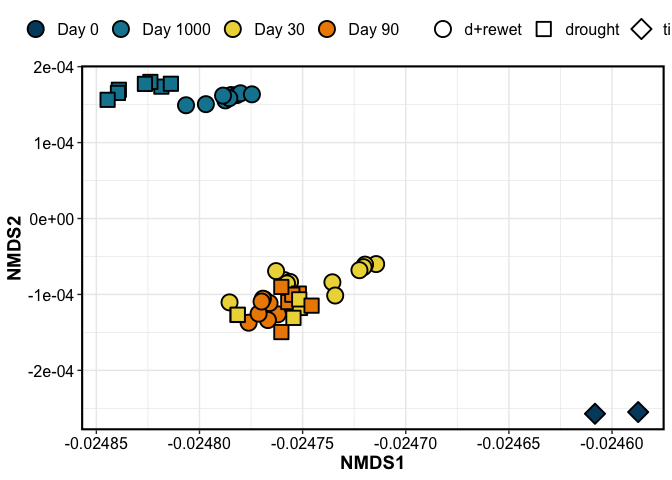
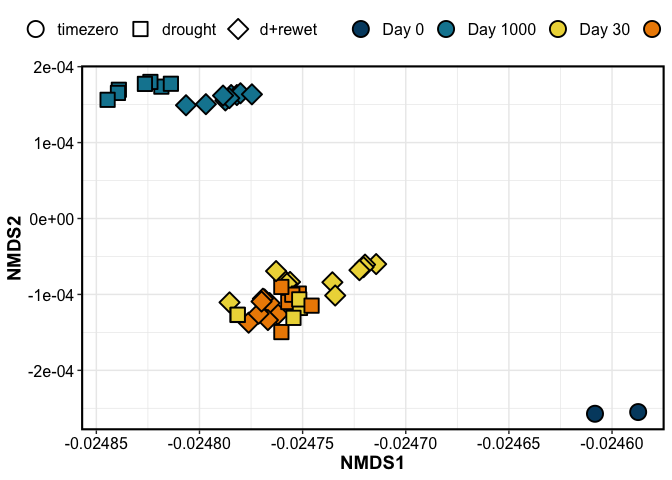
nmr report

diff --git a/3-reports/chemistry_report_NEW.md b/3-reports/chemistry_report_NEW.md
@@ -14,7 +14,7 @@ chemistry_report_NEW
 | depth      |   1 | 0.0506674 | 0.1149601 |  88.057141 |   0.001 |
 | length     |   2 | 0.2056311 | 0.4665603 | 178.687892 |   0.001 |
 | saturation |   1 | 0.1540093 | 0.3494347 | 267.659890 |   0.001 |
-| drying     |   1 | 0.0018533 | 0.0042049 |   3.220881 |   0.066 |
+| drying     |   1 | 0.0018533 | 0.0042049 |   3.220881 |   0.078 |
 | Residual   |  89 | 0.0512099 | 0.1161911 |         NA |      NA |
 | Total      |  94 | 0.4407384 | 1.0000000 |         NA |      NA |
 
@@ -24,7 +24,7 @@ chemistry_report_NEW
 |:-----------|----:|----------:|----------:|------------:|--------:|
 | length     |   2 | 0.1219450 | 0.7254832 | 189.9259569 |   0.001 |
 | saturation |   1 | 0.0420732 | 0.2503049 | 131.0558189 |   0.001 |
-| drying     |   1 | 0.0000653 | 0.0003882 |   0.2032546 |   0.645 |
+| drying     |   1 | 0.0000653 | 0.0003882 |   0.2032546 |   0.676 |
 | Residual   |  43 | 0.0138044 | 0.0821262 |          NA |      NA |
 | Total      |  47 | 0.1680880 | 1.0000000 |          NA |      NA |
 
@@ -77,4 +77,118 @@ Click for relabund per core
 
 </details>
 
+## ——
+
+## NMR
+
+### Stats – PERMANOVA
+
+| term       |  df |   SumOfSqs |         R2 |  statistic | p.value |
+|:-----------|----:|-----------:|-----------:|-----------:|--------:|
+| length     |   2 |  0.7142123 |  0.1163433 |  3.7384819 |   0.009 |
+| saturation |   1 |  2.4083480 |  0.3923136 | 25.2125733 |   0.001 |
+| drying     |   1 | -0.0286895 | -0.0046734 | -0.3003454 |   1.000 |
+| Residual   |  31 |  2.9611729 |  0.4823673 |         NA |      NA |
+| Total      |  36 |  6.1388341 |  1.0000000 |         NA |      NA |
+
+### Stats – PCA and clustering
+
+<details>
+<summary>
+Click for details
+</summary>
+
+![](chemistry_report_NEW_files/figure-gfm/nmr_cluster-1.png)<!-- -->![](chemistry_report_NEW_files/figure-gfm/nmr_cluster-2.png)<!-- -->![](chemistry_report_NEW_files/figure-gfm/nmr_cluster-3.png)<!-- -->![](chemistry_report_NEW_files/figure-gfm/nmr_cluster-4.png)<!-- -->
+
+    ## [1] "NMR hierarchical clustering: two clusters"
+
+    ##   cluster  n
+    ## 1       1 13
+    ## 2       2 24
+
+</details>
+
+![](chemistry_report_NEW_files/figure-gfm/nmr_pca_overall-1.png)<!-- -->
+
+## NMR relabund
+
+![](chemistry_report_NEW_files/figure-gfm/nmr_relabund-1.png)<!-- -->
+
+<details>
+<summary>
+Click for Relative abundance by core
+</summary>
+
+    ## [1] "relative abundance: Washington"
+
+![](chemistry_report_NEW_files/figure-gfm/nmr_relabund_cores-1.png)<!-- -->
+
+</details>
+
+## NMR spectra
+
+![](chemistry_report_NEW_files/figure-gfm/nmr_spectra-1.png)<!-- -->
+
 ------------------------------------------------------------------------
+
+## Session Info
+
+<details>
+<summary>
+Session Info
+</summary>
+
+Date run: 2026-02-13
+
+    ## R version 4.5.0 (2025-04-11)
+    ## Platform: aarch64-apple-darwin20
+    ## Running under: macOS Sequoia 15.7.3
+    ## 
+    ## Matrix products: default
+    ## BLAS:   /Library/Frameworks/R.framework/Versions/4.5-arm64/Resources/lib/libRblas.0.dylib 
+    ## LAPACK: /Library/Frameworks/R.framework/Versions/4.5-arm64/Resources/lib/libRlapack.dylib;  LAPACK version 3.12.1
+    ## 
+    ## locale:
+    ## [1] en_US.UTF-8/en_US.UTF-8/en_US.UTF-8/C/en_US.UTF-8/en_US.UTF-8
+    ## 
+    ## time zone: America/Los_Angeles
+    ## tzcode source: internal
+    ## 
+    ## attached base packages:
+    ## [1] stats     graphics  grDevices utils     datasets  methods   base     
+    ## 
+    ## other attached packages:
+    ##  [1] ggConvexHull_0.1.0  factoextra_1.0.7    cluster_2.1.8.1    
+    ##  [4] ggh4x_0.3.1         picarro.data_0.1.1  whistledown_0.1.0  
+    ##  [7] vegan_2.7-1         permute_0.9-7       nmrrr_1.0.0        
+    ## [10] soilpalettes_0.1.0  PNWColors_0.1.0     googlesheets4_1.1.1
+    ## [13] ggbiplot_0.55       agricolae_1.3-7     car_3.1-3          
+    ## [16] carData_3.0-5       nlme_3.1-168        stringi_1.8.7      
+    ## [19] lubridate_1.9.4     forcats_1.0.0       stringr_1.5.1      
+    ## [22] dplyr_1.1.4         purrr_1.0.4         readr_2.1.5        
+    ## [25] tidyr_1.3.1         tibble_3.3.0        ggplot2_3.5.2      
+    ## [28] tidyverse_2.0.0    
+    ## 
+    ## loaded via a namespace (and not attached):
+    ##  [1] gld_2.6.7          readxl_1.4.5       rlang_1.1.6        magrittr_2.0.3    
+    ##  [5] snakecase_0.11.1   e1071_1.7-16       compiler_4.5.0     mgcv_1.9-1        
+    ##  [9] callr_3.7.6        vctrs_0.6.5        pkgconfig_2.0.3    fastmap_1.2.0     
+    ## [13] backports_1.5.0    labeling_0.4.3     rmarkdown_2.29     tzdb_0.5.0        
+    ## [17] haven_2.5.4        ps_1.9.1           xfun_0.53          broom_1.0.8       
+    ## [21] parallel_4.5.0     prettyunits_1.2.0  DescTools_0.99.60  R6_2.6.1          
+    ## [25] RColorBrewer_1.1-3 boot_1.3-31        cellranger_1.1.0   Rcpp_1.0.14       
+    ## [29] knitr_1.50         Matrix_1.7-3       splines_4.5.0      igraph_2.1.4      
+    ## [33] timechange_0.3.0   tidyselect_1.2.1   rstudioapi_0.17.1  abind_1.4-8       
+    ## [37] yaml_2.3.10        targets_1.11.3     AlgDesign_1.2.1.2  codetools_0.2-20  
+    ## [41] processx_3.8.6     lattice_0.22-6     plyr_1.8.9         withr_3.0.2       
+    ## [45] evaluate_1.0.3     proxy_0.4-27       pillar_1.10.2      ggpubr_0.6.0      
+    ## [49] generics_0.1.3     hms_1.1.3          scales_1.4.0       rootSolve_1.8.2.4 
+    ## [53] base64url_1.4      class_7.3-23       glue_1.8.0         janitor_2.2.1     
+    ## [57] lmom_3.2           tools_4.5.0        data.table_1.17.0  ggsignif_0.6.4    
+    ## [61] Exact_3.3          fs_1.6.6           mvtnorm_1.3-3      cowplot_1.1.3     
+    ## [65] grid_4.5.0         googledrive_2.1.1  Formula_1.2-5      cli_3.6.5         
+    ## [69] expm_1.0-0         gargle_1.5.2       gtable_0.3.6       rstatix_0.7.2     
+    ## [73] digest_0.6.37      ggrepel_0.9.6      farver_2.1.2       htmltools_0.5.8.1 
+    ## [77] lifecycle_1.0.4    httr_1.4.7         secretbase_1.0.5   MASS_7.3-65
+
+</details>
